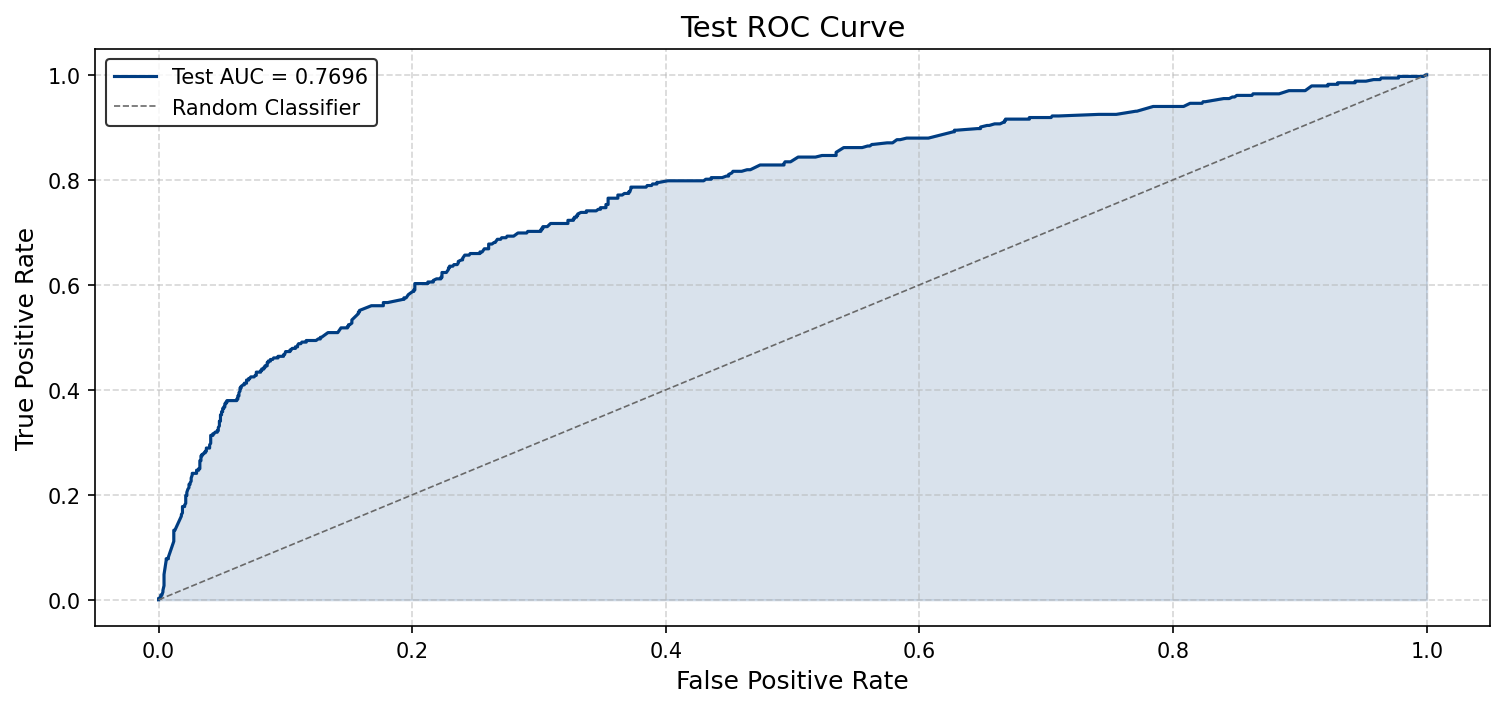
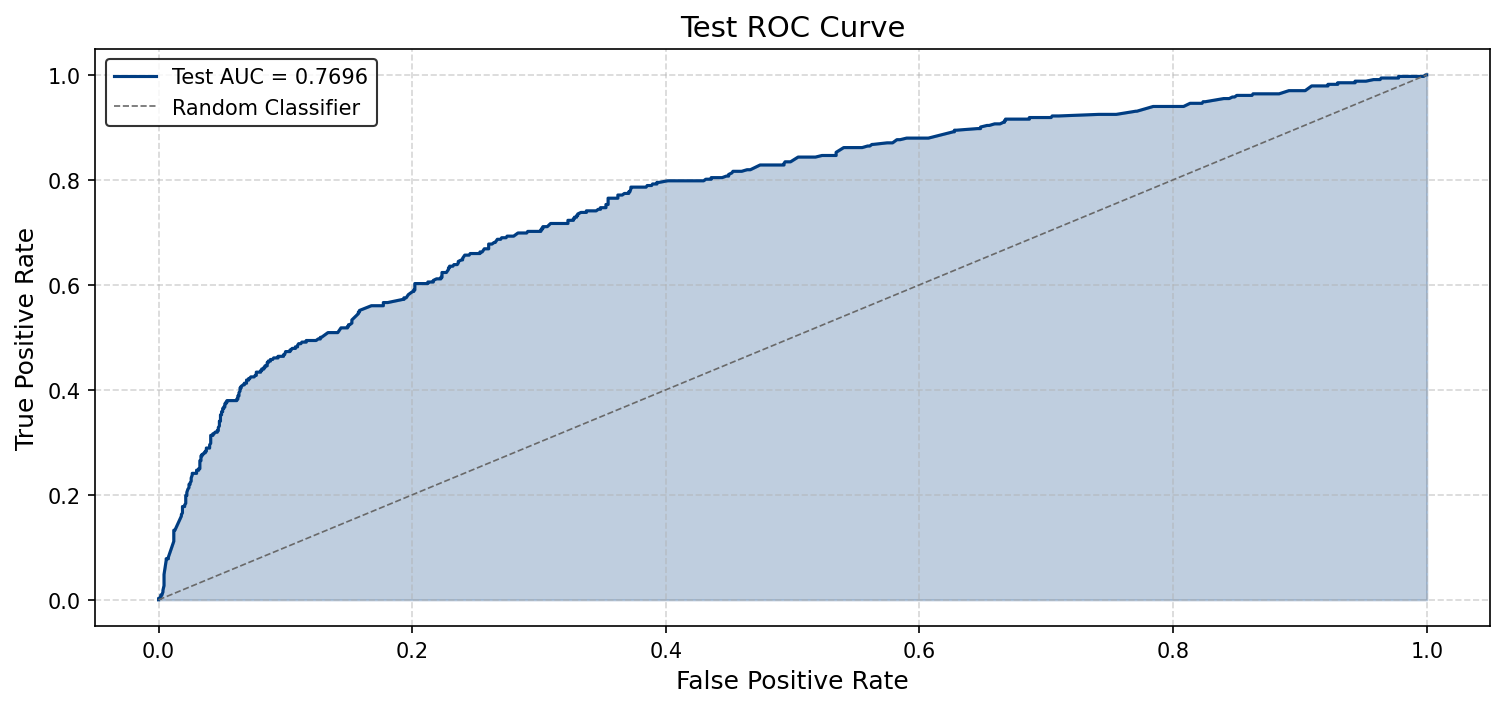
Improved graphs visualization

diff --git a/visualization.py b/visualization.py
@@ -156,7 +156,7 @@ def plot_roc_curve_test(y_true: np.ndarray, y_proba: np.ndarray) -> None:
     plt.plot(fpr, tpr, color=blue_colors[-1], label=f'Test AUC = {auc:.4f}')
     plt.plot([0, 1], [0, 1], color='dimgray', linestyle='--',
              linewidth=0.8, label='Random Classifier')
-    plt.fill_between(fpr, tpr, alpha=0.15, color=blue_colors[-1])
+    plt.fill_between(fpr, tpr, alpha=0.25, color=blue_colors[-1])
     plt.xlabel('False Positive Rate')
     plt.ylabel('True Positive Rate')
     plt.title('Test ROC Curve')
@@ -244,10 +244,12 @@ def portfolio_metrics(EAD: pd.Series, benchmark_pnl: np.ndarray, realized_pnl: n
     total_realized_pnl = realized_pnl.sum()
     pnl_uplift = (total_realized_pnl - total_benchmark_pnl) / \
         abs(total_benchmark_pnl) if total_benchmark_pnl != 0 else 0.0
+    pnl_difference = total_realized_pnl - total_benchmark_pnl
 
     capital_total = EAD.sum()
     capital_deployed = EAD[pred == 1].sum()
     capital_rate = capital_deployed / capital_total
+    capital_difference = capital_deployed - capital_total
 
     benchmark_roc = total_benchmark_pnl / capital_total if capital_total > 0 else 0.0
     realized_roc = total_realized_pnl / \
@@ -255,17 +257,23 @@ def portfolio_metrics(EAD: pd.Series, benchmark_pnl: np.ndarray, realized_pnl: n
 
     bench_str = f"${total_benchmark_pnl:,.2f}"
     realized_str = f"${total_realized_pnl:,.2f}"
+    pnl_difference_str = f"${pnl_difference:,.2f}"
+    total_capital_str = f"${capital_total:,.2f}"
+    deployed_capital_str = f"${capital_deployed:,.2f}"
+    capital_difference_str = f"-${abs(capital_difference):,.2f}"
 
-    W = 13  # value column width
+    W = 14  # value column width
 
     print(f"\n{set_name} Portfolio Metrics")
-    print(f"{'─' * 72}")
+    print(f"{'─' * 75}")
     print(f"{'Total clients:':<30} {total_clients:>{W},}")
     print(f"{'Clients approved:':<30} {clients_approved:>{W},}     ({approval_rate:.2%})")
     print(f"{'Defaulters:':<30} {defaulters:>{W},}     ({default_rate:.2%} of approved)")
     print(f"{'Benchmark PnL (lend all):':<30} {bench_str:>{W+3}}")
     print(f"{'Realized PnL (model):':<30} {realized_str:>{W+3}}  ({pnl_uplift:+.2%} vs benchmark)")
-    print(f"{'Capital total:':<30} {capital_total:>{W},.0f}")
-    print(f"{'Capital deployed:':<30} {capital_deployed:>{W},.0f}     ({capital_rate:.2%})")
+    print(f"{'PnL difference:':<30} {pnl_difference_str:>{W+3}}")
+    print(f"{'Capital total:':<30} {total_capital_str:>{W+3}}")
+    print(f"{'Capital deployed:':<30} {deployed_capital_str:>{W+3}}  ({capital_rate:.2%} of total)")
+    print(f"{'Capital difference:':<30} {capital_difference_str:>{W+3}}")
     print(f"{'Benchmark Return on Capital:':<30} {benchmark_roc:>{W+4}.2%}")
     print(f"{'Realized Return on Capital:':<30} {realized_roc:>{W+4}.2%}")
